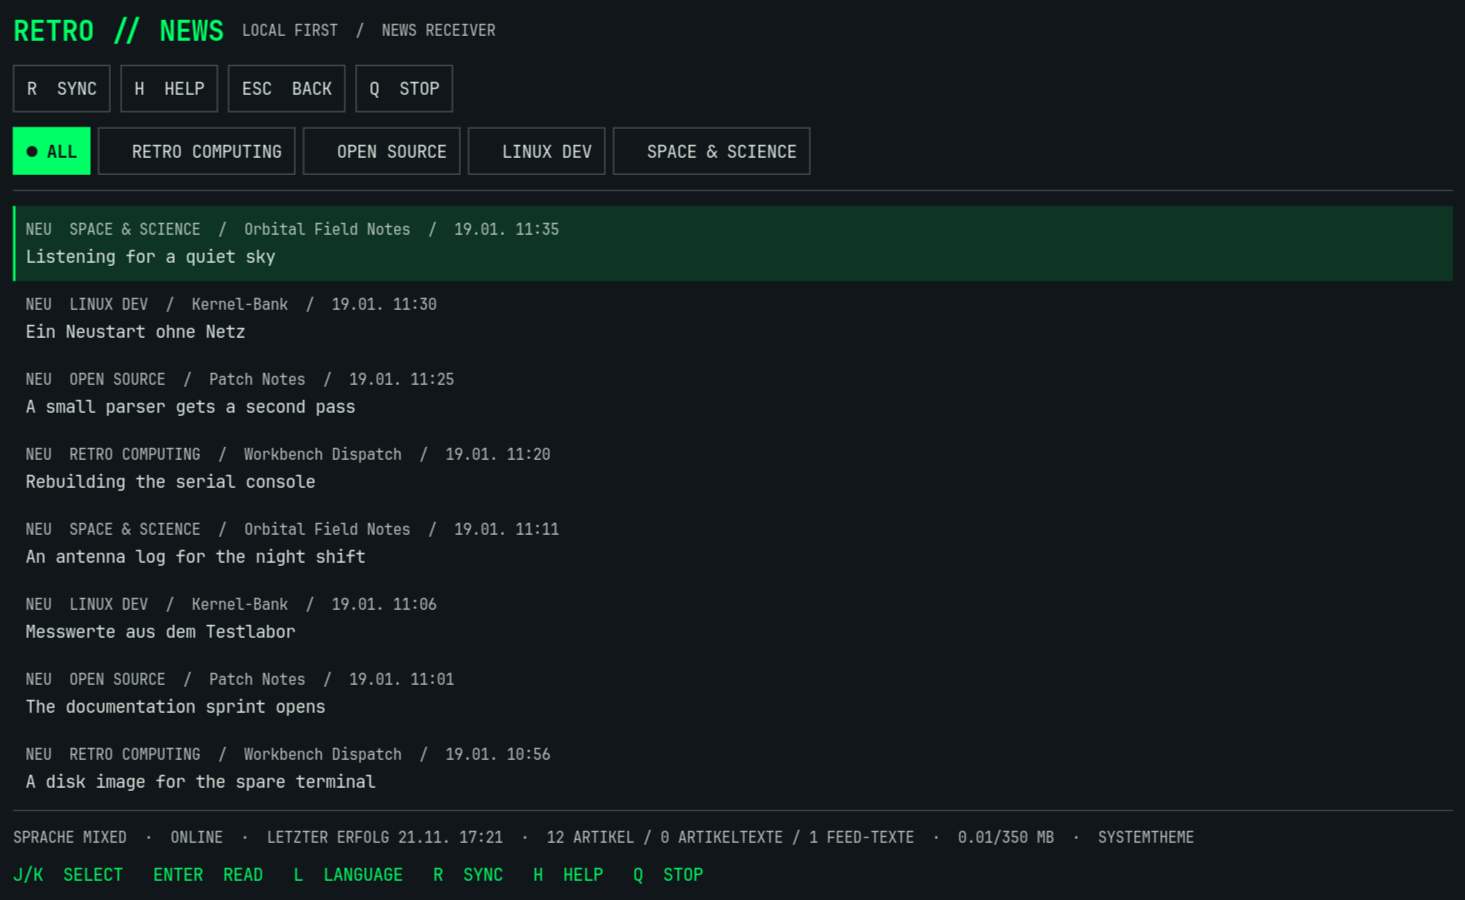
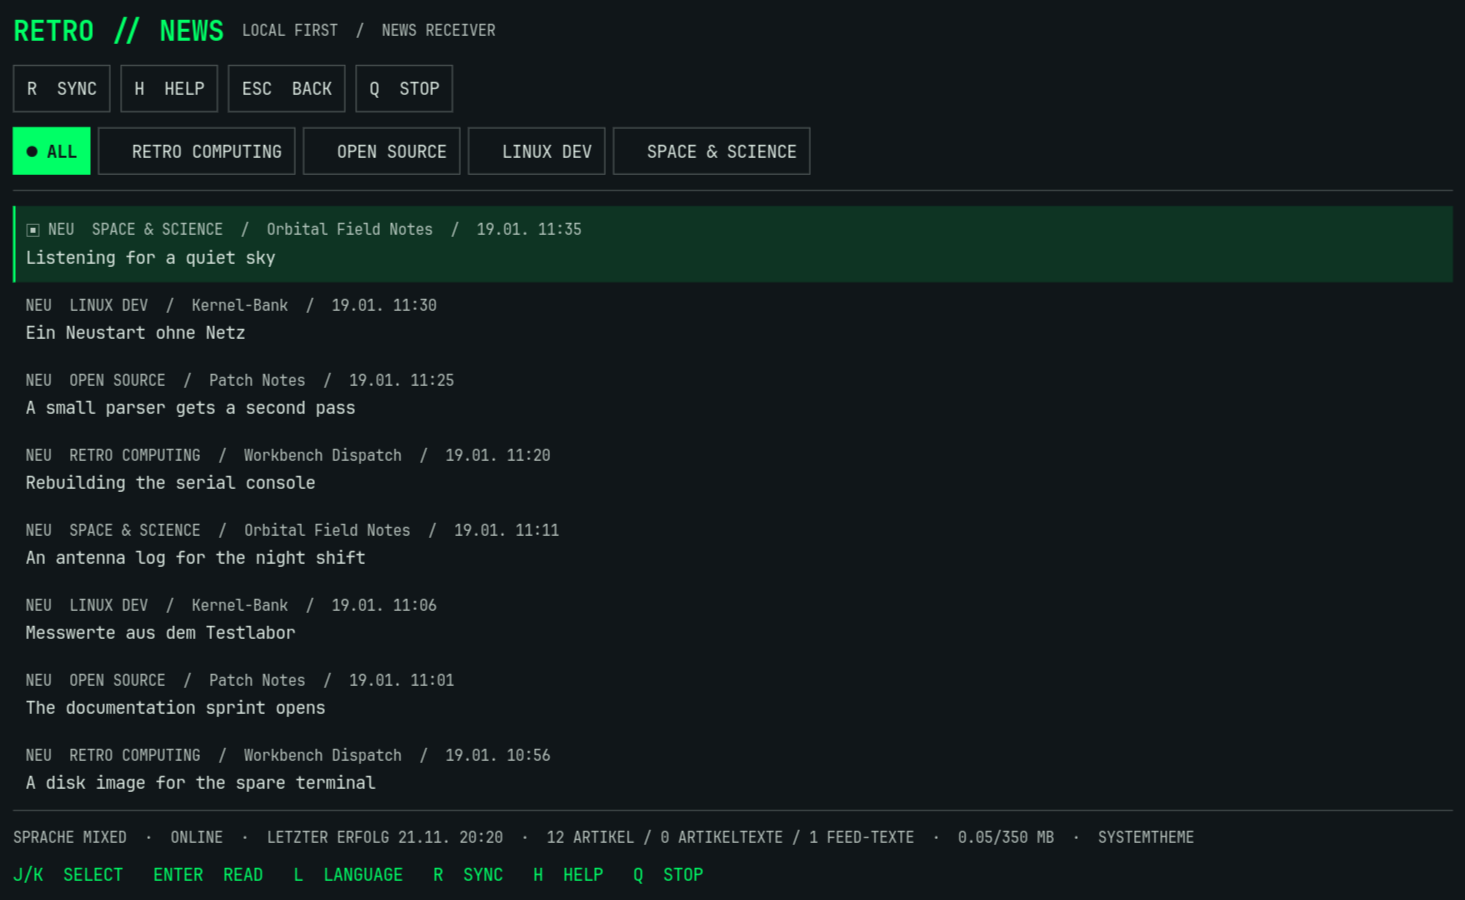
Show filtered article images in the RetroNews demo

diff --git a/docs/showcase/serve.py b/docs/showcase/serve.py
@@ -32,6 +32,9 @@ FEEDS = {
     )),
 }
 
+MEDIA_PATH = '/media/reference-sweep.png'
+MEDIA = Path(__file__).with_name('reference-sweep.png')
+
 FEATURE = (
     '03:20 UTC / CALIBRATION',
     'The array runs against a quiet reference field before tracking the survey target. '
@@ -62,12 +65,14 @@ def feed_xml(key):
         title, summary = escape(title), escape(summary)
         if key in ('science', 'linux'):
             content = ''
+            enclosure = ''
             if key == 'science' and index == 0:
                 markup = ''.join(f'<p>{escape(paragraph)}</p>' for paragraph in FEATURE)
                 content = f'<content type="html">{escape(markup)}</content>'
+                enclosure = f'<link rel="enclosure" type="image/png" href="{MEDIA_PATH}"/>'
             entries.append(f'<entry><id>urn:retronews:{key}:{index + 1}</id><title>{title}</title>'
                            f'<link href="{path}"/><updated>{published.isoformat()}</updated>'
-                           f'<summary>{summary}</summary>{content}</entry>')
+                           f'<summary>{summary}</summary>{content}{enclosure}</entry>')
         else:
             entries.append(f'<item><title>{title}</title><link>{path}</link>'
                            f'<pubDate>{format_datetime(published)}</pubDate>'
@@ -84,6 +89,8 @@ class Handler(BaseHTTPRequestHandler):
         key = self.path.removeprefix('/feeds/')
         if self.path == '/robots.txt':
             body, mime = b'User-agent: *\n', 'text/plain'
+        elif self.path == MEDIA_PATH:
+            body, mime = MEDIA.read_bytes(), 'image/png'
         elif key in FEEDS and self.path == f'/feeds/{key}':
             body, mime = feed_xml(key), 'application/xml'
         else:

diff --git a/retronews/__init__.py b/retronews/__init__.py
@@ -1,2 +1,2 @@
 """RetroNews — local, offline-first RSS/Atom reader."""
-__version__ = '0.1.0'
+__version__ = '0.1.1'

diff --git a/docs/TEST-REPORT.md b/docs/TEST-REPORT.md
@@ -1,13 +1,13 @@
-# RetroNews 0.1.0 test report
+# RetroNews 0.1.1 test report
 
-Run on 2026-11-21 in Arch Linux / Omarchy x86_64, native Wayland, Hyprland 0.56.2, 1920 × 1080 output at 125% scale. Python 3.14.8, GTK 4.24.1, PyGObject 3.58.1, GdkPixbuf 2.44.8, Expat 2.9.0 and SQLite 3.54.0. The release changes are listed in [release notes](RELEASE-NOTES.md). The exact release files are identified by [SHA-256](../SHA256SUMS).
+Run on 2026-11-21 in Arch Linux / Omarchy x86_64, native Wayland, Hyprland 0.56.2, 1920 × 1080 output at 125% scale. Python 3.14.8, GTK 4.24.1, PyGObject 3.58.1, GdkPixbuf 2.44.8, Expat 2.9.0 and SQLite 3.54.0. The initial test run was for 0.1.0. The same suite and the installed desktop smoke were rerun for 0.1.1. The release changes are listed in [release notes](RELEASE-NOTES.md). The exact release files are identified by [SHA-256](../SHA256SUMS).
 
 | Result | Scope | Evidence |
 | --- | --- | --- |
 | PASS | Original unittest baseline | 36 passed on the native Wayland session. |
 | PASS | Release unittest suite | 43 passed. RSS and Atom, empty/malformed XML, declaration/depth/size bounds, encodings, unknown dates, duplicate links, plaintext, redirects, destination restrictions, robots, HTTP errors/timeouts, index and cache failures, atomic writes, retention, process restart and filtering. |
-| PASS | Installed GTK4 window on native Wayland | Installed into a temporary prefix, loaded four subscriptions from JSON, refreshed manually and received 12 articles. Opened the long Atom entry, scrolled, navigated back, changed language and category, opened help and quit through the GTK window. |
-| PASS | Desktop offline restart | With the HTTP server stopped, manual refresh reported errors for all four subscriptions. Twelve articles persisted and the long Atom entry opened from cache in a new process. The fixture reset only the last-success timestamps to bypass the normal 60-second refresh floor. |
+| PASS | Installed GTK4 window on native Wayland | Installed into a temporary prefix, loaded four subscriptions from JSON, refreshed manually and received 12 articles. Opened the long Atom entry, switched the cached image between the theme-filtered and original views with I, scrolled, navigated back, changed language and category, opened help and quit through the GTK window. |
+| PASS | Desktop offline restart | With the HTTP server stopped, manual refresh reported errors for all four subscriptions. Twelve articles persisted and the long Atom entry opened with its cached image in a new process. The fixture reset only the last-success timestamps to bypass the normal 60-second refresh floor. |
 | PASS | `tests/smoke_gtk.py` | GTK mapping, cached text and image, keyboard handlers, filters, help, scroll extent and theme reload. |
 | PASS | `tests/smoke_offline.py` | A second GTK process opened previously fetched article text and a cached image, then kept them through a failed refresh. |
 | PASS | `tests/smoke_layout.py` | Five real GTK allocation/snapshot cases in dark and light palettes, including a 400 × 700 logical layout and portrait image. |

diff --git a/docs/INSTALL.md b/docs/INSTALL.md
@@ -73,8 +73,8 @@ export XDG_STATE_HOME="$profile/state"
 /usr/bin/python3 -m retronews
 ```
 
-1. Wait for 12 headlines. Press **Enter** and scroll the observation log, then use **Esc**, **L** and **Tab** to verify navigation and filters.
+1. Wait for 12 headlines. Open **Listening for a quiet sky**. Press **I** to compare the theme-filtered chart with its original colors, then scroll the observation log. Use **Esc**, **L** and **Tab** to verify navigation and filters.
 2. Press **Q**. Stop the demo server in the first terminal with **Ctrl+C**. Wait until 60 seconds have elapsed since the successful refresh.
-3. Restart from the second terminal. Check that the status reports a connection error and that the 12 cached articles are still readable.
+3. Restart from the second terminal. Check that the status reports a connection error and that the 12 cached articles are still readable. Reopen the observation log and press **I** to verify that its image is also cached.
 
 The screenshots use a profile-local theme with background `#101619`, foreground `#DAE7E0`, accent `#00FF66` and warning `#FFCC00`. To reproduce that palette, set those values in `$XDG_STATE_HOME/omarchy/current/theme/colors.toml` inside the demo profile. RetroNews reads the theme automatically.

diff --git a/README.md b/README.md
@@ -4,10 +4,17 @@
 
 ![RetroNews headline list with synthetic RSS and Atom stories in a phosphor-green theme](docs/showcase/headlines.png)
 
-[Article reader](docs/showcase/reader.png) · [Language filter](docs/showcase/language.png)
+## See RetroNews in action
+
+The demo moves from all headlines to the Space & Science category, opens a cached article, and uses **I** to switch between the theme-filtered image and the original. Use the still views to compare the two versions at full resolution.
+
+![GTK4 demo showing the headline list, category filter, article text and both views of a synthetic chart](docs/showcase/demo.gif)
+
+[Article with theme-filtered image](docs/showcase/reader.png) · [Article with original image](docs/showcase/original.png) · [Language filter](docs/showcase/language.png)
 
 - Read feed summaries, supplied article text and optionally prefetched text and images.
 - Browse by category or language and see the last refresh result for each source.
+- Switch cached PNG and JPEG images between their original colors and the active theme palette.
 - Keep a bounded local cache and reopen it without a connection.
 
 ## Quickstart

diff --git a/THIRD-PARTY-NOTICES.md b/THIRD-PARTY-NOTICES.md
@@ -12,4 +12,4 @@ RetroNews uses these system libraries. The source package bundles no copies of t
 
 SQLite, Expat and image decoders come from the distribution or its Python build. See the installed distribution packages for their license notices.
 
-The showcase uses authored fictional feed data and actual pixels from the native GTK4 application. GTK renders the installed system monospace font. No font file, logo, feed media or third-party article is distributed within the showcase.
+The showcase uses authored fictional feed data, an original chart of synthetic measurements, and actual pixels from the native GTK4 application. GTK renders the installed system monospace font. No font file, logo, third-party feed media or third-party article is distributed within the showcase.

diff --git a/docs/RELEASE-NOTES.md b/docs/RELEASE-NOTES.md
@@ -1,4 +1,8 @@
-# RetroNews 0.1.0
+# RetroNews 0.1.1
+
+The showcase now uses a synthetic signal chart attached to its Atom article. The README demonstration follows the headline list, a category filter and the cached reader, including its theme-filtered and original image modes. The newsreader behavior is the same as in 0.1.0.
+
+## RetroNews 0.1.0
 
 - Standalone GTK4 application with RSS/Atom, category and language filters, and offline reading.
 - Four synthetic showcase subscriptions covering both supported feed formats.
